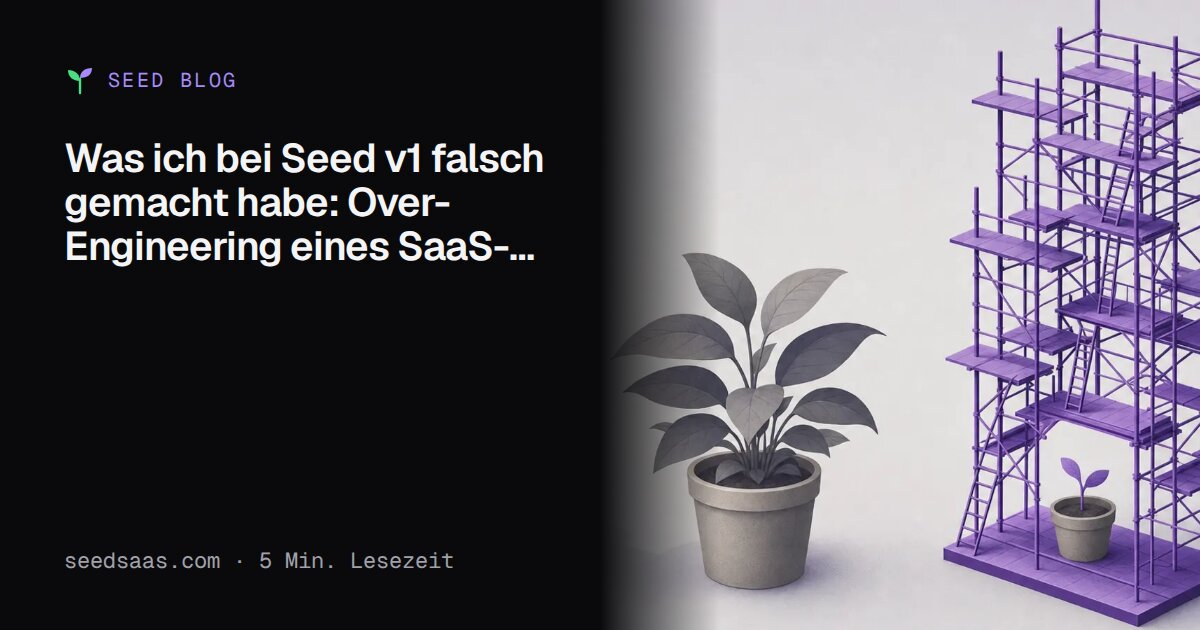
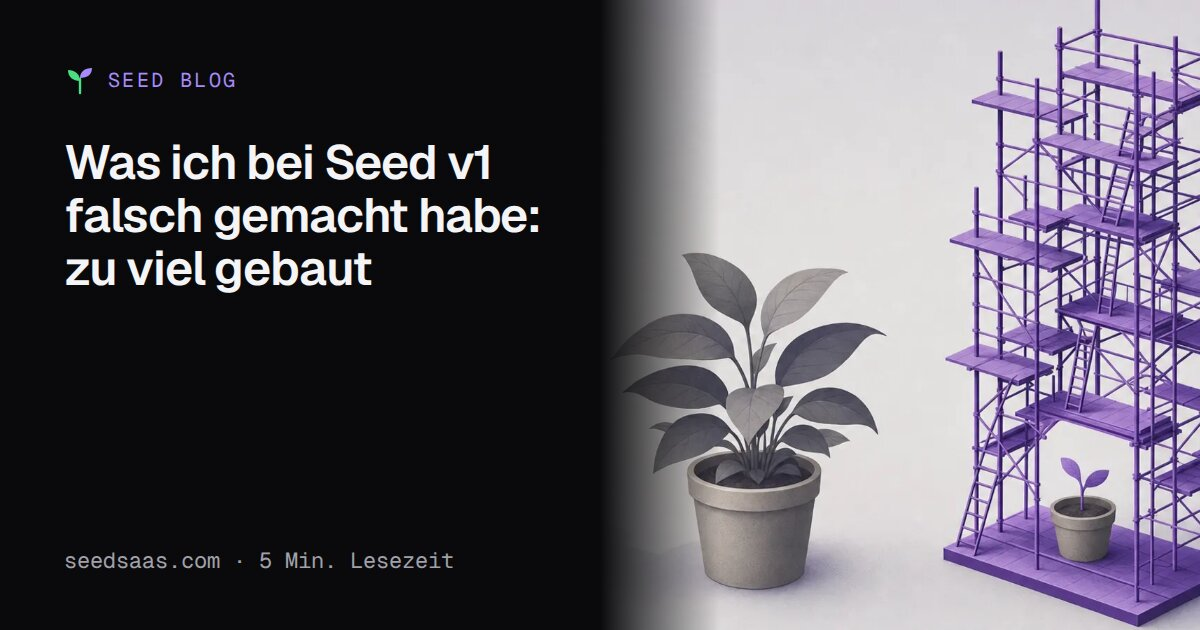
content(blog): shorten German v1 title for its card

Changed region(s): [[0.0308, 0.2111, 0.4625, 0.4825]]

diff --git a/libs/server/blog/seed-posts/over-engineering-saas-boilerplate-fehler.md b/libs/server/blog/seed-posts/over-engineering-saas-boilerplate-fehler.md
@@ -2,7 +2,7 @@
 slug: over-engineering-saas-boilerplate-fehler
 language: de
 translationOf: over-engineering-a-saas-boilerplate
-title: "Was ich bei Seed v1 falsch gemacht habe: Over-Engineering eines SaaS-Boilerplates"
+title: "Was ich bei Seed v1 falsch gemacht habe: zu viel gebaut"
 seoTitle: "Over-Engineering im SaaS-Boilerplate: meine Fehler bei Seed v1"
 description: "Seed v1 hakte die Hälfte seiner Roadmap ab und fast nichts von dem, was ein Mensch benutzt. Wie Over-Engineering eines SaaS-Boilerplates im Code aussah, und was Seed heute tut."
 tldr:
